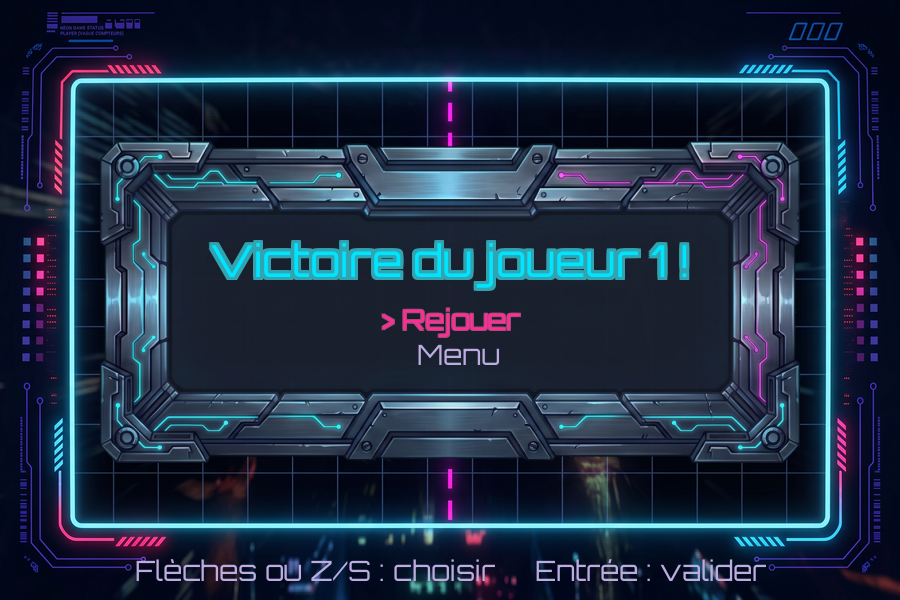
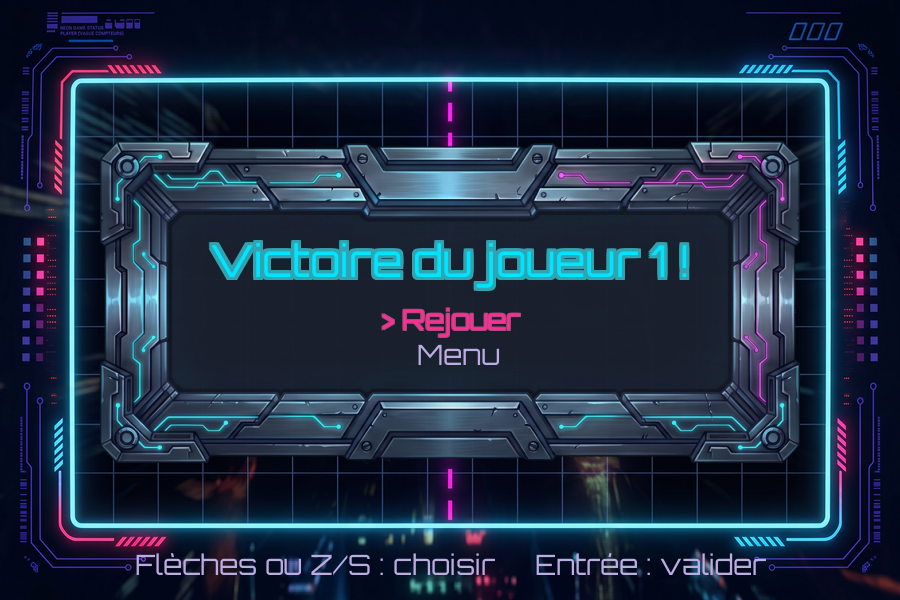
refactor(ui): layout derive des metriques de police (fin des magic numbers)

Changed region(s): [[0.1556, 0.9, 0.56, 0.99], [0.5911, 0.9, 0.8711, 0.99]]

diff --git a/pong/scenes/pause.py b/pong/scenes/pause.py
@@ -2,7 +2,7 @@
 
 import pygame
 
-from .. import neon, settings
+from .. import neon, settings, ui
 from .base import Scene
 
 
@@ -30,9 +30,16 @@ class PauseScene(Scene):
         surface.blit(overlay, (0, 0))
 
         center_x = settings.WINDOW_WIDTH // 2
+        font_small = self.app.font_small
+        title_y, resume_y, menu_y = ui.stacked_centers(
+            settings.WINDOW_HEIGHT // 2,
+            [self.app.font_large.get_height(),
+             font_small.get_height(),
+             font_small.get_height()],
+            gap=20)
         neon.glow_text(surface, self.app.font_large, "PAUSE",
-                            settings.NEON_CYAN, center=(center_x, 240), spread=4)
-        self.app.draw_text(surface, "P ou Entrée : reprendre", self.app.font_small,
-                           settings.TEXT_COLOR, center=(center_x, 320))
-        self.app.draw_text(surface, "Q : retour au menu", self.app.font_small,
-                           settings.TEXT_DIM, center=(center_x, 350))
+                       settings.NEON_CYAN, center=(center_x, title_y), spread=4)
+        self.app.draw_text(surface, "P ou Entrée : reprendre", font_small,
+                           settings.TEXT_COLOR, center=(center_x, resume_y))
+        self.app.draw_text(surface, "Q : retour au menu", font_small,
+                           settings.TEXT_DIM, center=(center_x, menu_y))

diff --git a/pong/ui.py b/pong/ui.py
@@ -58,7 +58,23 @@ def draw_choices(surface, app, frame_rect, labels, index, spread=1,
             app.draw_text(surface, text, app.font_small, color, center=center)
 
 
+def hint_y(app):
+    """Ordonnée du centre de l'invite, calée sur la hauteur de la police."""
+    return settings.WINDOW_HEIGHT - app.font_small.get_height()
+
+
+def stacked_centers(center_y, heights, gap=16):
+    """Centres verticaux d'un bloc de textes empilés, centré sur `center_y`."""
+    total = sum(heights) + gap * (len(heights) - 1)
+    y = center_y - total // 2
+    centers = []
+    for height in heights:
+        centers.append(y + height // 2)
+        y += height + gap
+    return centers
+
+
 def draw_hint(surface, app, text):
     """Invite affichée en bas de la fenêtre."""
     app.draw_text(surface, text, app.font_small, settings.TEXT_DIM,
-                  center=(settings.WINDOW_WIDTH // 2, settings.WINDOW_HEIGHT - 30))
+                  center=(settings.WINDOW_WIDTH // 2, hint_y(app)))

diff --git a/pong/scenes/game.py b/pong/scenes/game.py
@@ -207,12 +207,14 @@ class GameScene(Scene):
         surface.blit(screen, rect)
 
         # Le score, à l'intérieur du panneau (texte sombre, lisible sur cyan).
+        # Écart des deux scores dérivé de la largeur du panneau.
+        offset = max(1, rect.width // 6)
         y = rect.centery
         color = (4, 32, 46)
         self.app.draw_text(surface, str(self.score.left), self.app.font_small,
-                           color, center=(center_x - 27, y))
+                           color, center=(center_x - offset, y))
         self.app.draw_text(surface, str(self.score.right), self.app.font_small,
-                           color, center=(center_x + 27, y))
+                           color, center=(center_x + offset, y))
 
     def _draw_mode_label(self, surface):
         if self.mode == "1p":

diff --git a/pong/app.py b/pong/app.py
@@ -35,9 +35,9 @@ class App:
 
         # Police du thème (Orbitron), embarquée dans les assets.
         font_path = str(asset_path(settings.ASSET_FONT))
-        self.font_small = pygame.font.Font(font_path, 28)
-        self.font_medium = pygame.font.Font(font_path, 44)
-        self.font_large = pygame.font.Font(font_path, 72)
+        self.font_small = pygame.font.Font(font_path, settings.FONT_SMALL_SIZE)
+        self.font_medium = pygame.font.Font(font_path, settings.FONT_MEDIUM_SIZE)
+        self.font_large = pygame.font.Font(font_path, settings.FONT_LARGE_SIZE)
 
         self._scenes = {"menu": MenuScene, "game": GameScene, "options": OptionsScene}
         self.scene = None

diff --git a/tests/test_ui.py b/tests/test_ui.py
@@ -28,3 +28,19 @@ def test_fit_menu_frame_reduces_to_field_width():
 
     assert fitted.get_width() == settings.FIELD_WIDTH - 40
     assert fitted.get_height() == round(405 * (settings.FIELD_WIDTH - 40) / 880)
+
+
+def test_stacked_centers_centers_the_block():
+    assert ui.stacked_centers(300, [72, 28, 28], gap=16) == [256, 322, 366]
+
+
+def test_hint_y_keeps_the_text_inside_the_window():
+    from pong.app import App
+
+    app = App(sound_enabled=False)
+
+    y = ui.hint_y(app)
+
+    assert y > 0
+    assert y + app.font_small.get_height() <= settings.WINDOW_HEIGHT
+    pygame.quit()

diff --git a/tests/test_assets.py b/tests/test_assets.py
@@ -77,7 +77,8 @@ def test_app_uses_bundled_font():
     from pong.resources import asset_path
 
     app = App(sound_enabled=False)
-    expected = pygame.font.Font(str(asset_path(settings.ASSET_FONT)), 28)
+    expected = pygame.font.Font(str(asset_path(settings.ASSET_FONT)),
+                                settings.FONT_SMALL_SIZE)
 
     # Même police et même taille → mêmes métriques que font_small.
     assert app.font_small.size("PONG") == expected.size("PONG")

diff --git a/pong/settings.py b/pong/settings.py
@@ -51,6 +51,11 @@ KEY_PAUSE = (pygame.K_p, pygame.K_ESCAPE)
 KEY_VALIDATE = (pygame.K_RETURN, pygame.K_KP_ENTER, pygame.K_SPACE)
 KEY_MENU = (pygame.K_q, pygame.K_m)
 
+# --- Polices (Orbitron, embarquée dans pong/assets/) ---
+FONT_SMALL_SIZE = 28
+FONT_MEDIUM_SIZE = 44
+FONT_LARGE_SIZE = 72
+
 # --- IA : réglages ---
 AI_DEAD_ZONE = 6            # tolérance (px) autour de la cible, évite le tremblement
 
